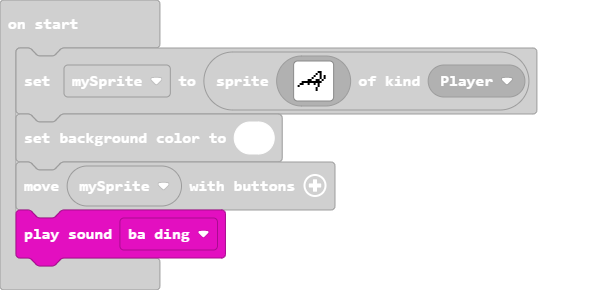
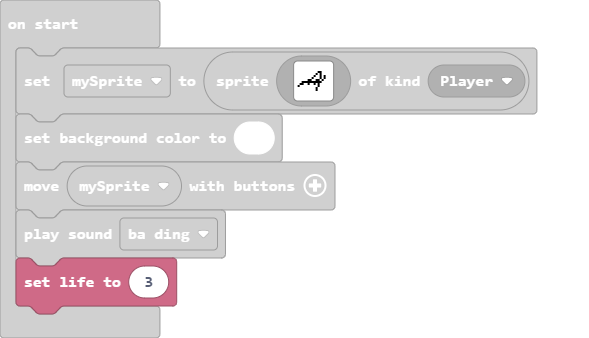
Update main.blocks, main.ts

Changed region(s): [[0.0, 0.0621, 0.9168, 0.931], [0.0611, 0.3414, 0.0917, 0.3724]]

diff --git a/main.ts b/main.ts
@@ -19,3 +19,4 @@ let mySprite = sprites.create(img`
 scene.setBackgroundColor(1)
 controller.moveSprite(mySprite)
 music.baDing.play()
+info.setLife(3)
